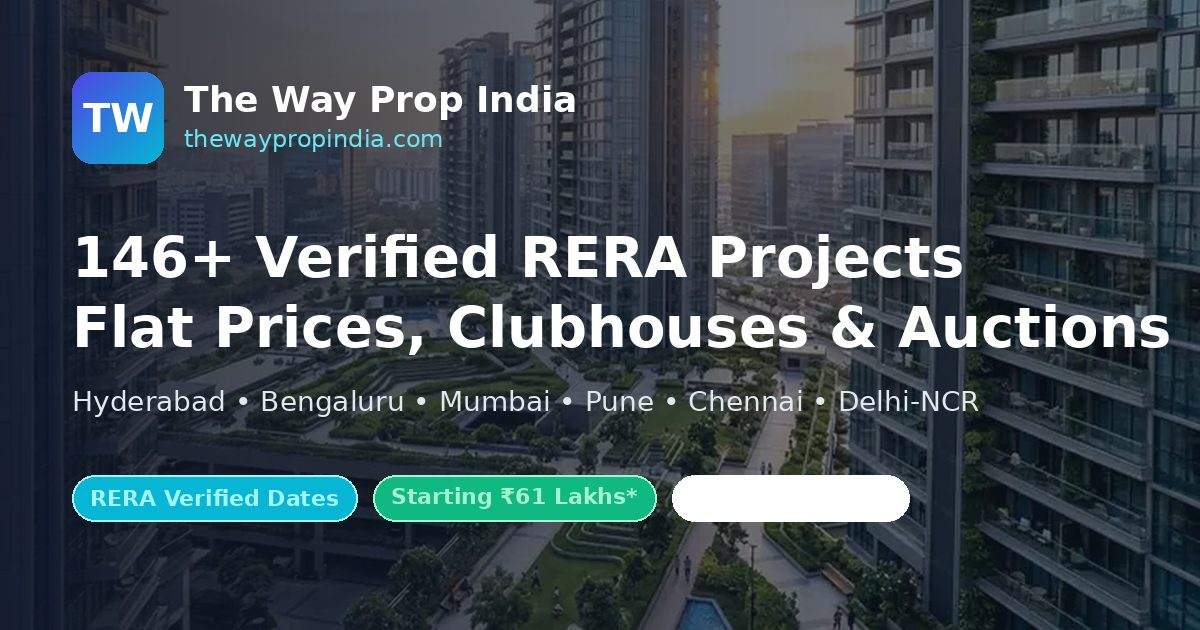
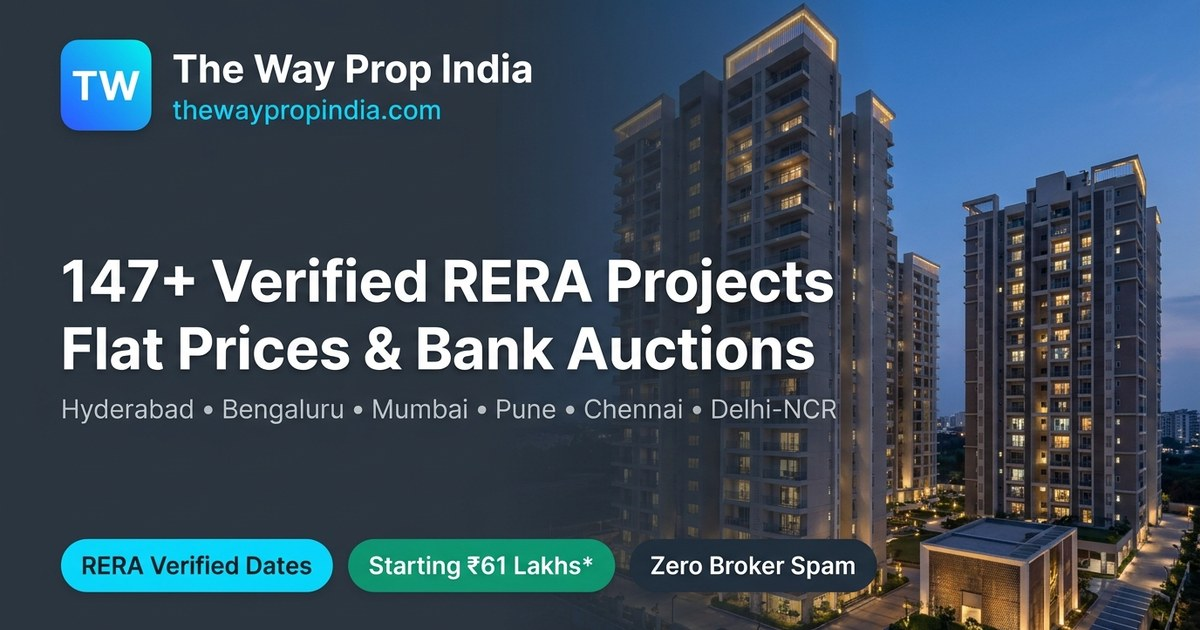
Add files via upload

diff --git a/index.html b/index.html
@@ -192,7 +192,7 @@
             <span class="inline-block px-2.5 py-0.5 rounded-full bg-white/15 border border-white/25 text-white text-[11px] font-semibold">No Broker Spam</span>
           </div>
           <h2 id="hero-title" class="text-xl sm:text-3xl font-extrabold tracking-tight">Hyderabad Apartments &amp; Villas</h2>
-          <p id="hero-subtitle" class="text-xs sm:text-sm text-slate-200">Compare official RERA start &amp; completion dates, ₹/sq.ft rates, clubhouses, and all-in flat costs across Hyderabad.</p>
+          <p id="hero-subtitle" class="text-xs sm:text-sm text-slate-200">Compare official RERA start &amp; completion dates, ₹/sq.ft rates, amenities, and all-in flat costs across Hyderabad.</p>
         </div>
       </div>
     </section>
@@ -200,7 +200,7 @@
     <!-- Buyer Trust Caption -->
     <div class="rounded-xl bg-gradient-to-r from-indigo-50 via-cyan-50 to-emerald-50 border border-indigo-200/70 px-4 py-2.5 flex items-center justify-between gap-2 flex-wrap shadow-sm">
       <p class="text-xs sm:text-sm font-semibold text-slate-800">
-        💡 <span class="text-indigo-700 font-bold">Before you buy a flat or villa,</span> compare RERA dates, real ₹/sq.ft prices &amp; clubhouses here—with zero broker spam.
+        💡 <span class="text-indigo-700 font-bold">Before you buy a flat or villa,</span> compare RERA dates, real ₹/sq.ft prices &amp; amenities here—with zero broker spam.
       </p>
       <a href="/comparisons/index.html" class="text-xs font-bold text-indigo-700 hover:underline whitespace-nowrap">Compare Projects &rarr;</a>
     </div>
